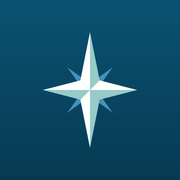
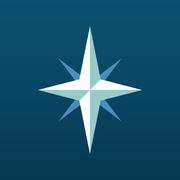
chore: Claude Code 2026-10-05 10:54

diff --git a/src/data/changelog-generated.ts b/src/data/changelog-generated.ts
@@ -5,9 +5,197 @@ import type { Release } from "@/components/changelog-page";
 
 export const GENERATED_RELEASES: Release[] = [
   {
+    "version": "2.66.0",
+    "date": "2026-10-05",
+    "entries": [
+      {
+        "type": "feature",
+        "title": "WhatsApp under Communications — a shared inbox to read and reply to clients (24-hour reply window, approved templates outside it, read receipts, photos and files, assign and close), contacts with emailed opt-in and recorded consent, broadcast lists, Meta template submission, and sends with delivery tracking and automatic opt-outs"
+      },
+      {
+        "type": "fix",
+        "title": "Gate passes can now be emailed to their contact, like every other permit"
+      },
+      {
+        "type": "feature",
+        "title": "Dubai Maritime City (DMC) can now be chosen as the port on Exit & Entry permits"
+      }
+    ]
+  },
+  {
+    "version": "2.65.0",
+    "date": "2026-10-02",
+    "entries": [
+      {
+        "type": "feature",
+        "title": "Warehouse Out, QR labels, offline check-in, receipt email, installable app"
+      },
+      {
+        "type": "feature",
+        "title": "New View theme is now \"Navy & warm gold\" with Jost and Cormorant headings"
+      },
+      {
+        "type": "feature",
+        "title": "Warehouse Store In, Manage Warehouse, and Move Parcel to Storage"
+      },
+      {
+        "type": "feature",
+        "title": "Deliveries (driver) and Manage Deliveries (admin)"
+      },
+      {
+        "type": "feature",
+        "title": "Check-Out Parcels — delivery notes by scan or search, three ways out"
+      },
+      {
+        "type": "fix",
+        "title": "Managed Boats photos keep the same 16:9 size as the Vessels cards"
+      },
+      {
+        "type": "feature",
+        "title": "Link the Logistics mobile app from the ShipSync page"
+      },
+      {
+        "type": "feature",
+        "title": "Polaris Logistics mobile app — shell, role-based home, Check-in Parcels"
+      },
+      {
+        "type": "feature",
+        "title": "Checklist library reads Yes/No-box forms like the DMA inspection checklists"
+      },
+      {
+        "type": "feature",
+        "title": "Checklist library — drop in any checklist PDF and it fills itself like the RYA forms"
+      },
+      {
+        "type": "fix",
+        "title": "Close gaps found in a bug-hunt over last week's Managed Boats work"
+      },
+      {
+        "type": "fix",
+        "title": "Wire up email sending on the Exit/Entry permit dialog"
+      },
+      {
+        "type": "fix",
+        "title": "Checklist lines matched by name can be unlinked"
+      },
+      {
+        "type": "feature",
+        "title": "Inspection checklists as jobs — Assign Team, remarks and photos per line, notes page on the RYA form"
+      }
+    ]
+  },
+  {
+    "version": "2.64.0",
+    "date": "2026-09-30",
+    "entries": [
+      {
+        "type": "feature",
+        "title": "Field app — \"Admin Management\" tab for Orbit admins on the phone"
+      },
+      {
+        "type": "fix",
+        "title": "Vessels with the same name can now be told apart before archiving or deleting one"
+      },
+      {
+        "type": "fix",
+        "title": "Inbound mail joins the ticket its thread already has; no-reply senders raise nothing"
+      },
+      {
+        "type": "fix",
+        "title": "The Vessel Overview search looks across all statuses"
+      },
+      {
+        "type": "feature",
+        "title": "Assign a vessel to an Agency team member when adding it, choosing from the Agency team only"
+      },
+      {
+        "type": "feature",
+        "title": "RYA Cruising checklist — add \"Boom preventer attachment & line\" (TCC13)"
+      },
+      {
+        "type": "feature",
+        "title": "One-click RYA Training Checklist PDF, filled from the boat's Polaris ticks"
+      },
+      {
+        "type": "fix",
+        "title": "\"Save & Add Another\" no longer closes the Inventory item form on desktop"
+      },
+      {
+        "type": "feature",
+        "title": "Checklist rows show the matched inventory item's photo"
+      }
+    ]
+  },
+  {
+    "version": "2.63.0",
+    "date": "2026-09-29",
+    "entries": [
+      {
+        "type": "feature",
+        "title": "RYA inspection checklists from the OPS workbook, matched against the boat's inventory"
+      },
+      {
+        "type": "feature",
+        "title": "Managed Boats — required inspections and per-boat DMA / FMA / RYA checklists"
+      },
+      {
+        "type": "feature",
+        "title": "SIM Cards — bulk import from Excel / CSV"
+      },
+      {
+        "type": "fix",
+        "title": "Calendar and roster show the boat name for Managed Boats jobs"
+      },
+      {
+        "type": "feature",
+        "title": "Field app — per-crew Attend / Done on multi-crew jobs, \"Waiting Companion\""
+      },
+      {
+        "type": "fix",
+        "title": "Photos captured on the mobile app now show on the boat job in the office"
+      },
+      {
+        "type": "feature",
+        "title": "\"Booked\" job category and an In-Use board on Managed Boats"
+      },
+      {
+        "type": "feature",
+        "title": "Inventory List — item editor with Save & Add Another, photo by drag / camera / upload, view and edit"
+      },
+      {
+        "type": "fix",
+        "title": "Inventory List — the Add Item form stays open for the next item"
+      },
+      {
+        "type": "feature",
+        "title": "Inventory job category — crew check and update a boat's inventory from the field app"
+      },
+      {
+        "type": "feature",
+        "title": "Each managed boat numbers its own jobs — MVT26-0001, SB26-0001, IMP26-0001"
+      },
+      {
+        "type": "feature",
+        "title": "Rename a managed boat in place"
+      },
+      {
+        "type": "feature",
+        "title": "Project List — All / To Be Invoiced / Invoiced views, and Delete"
+      }
+    ]
+  },
+  {
     "version": "2.62.0",
     "date": "2026-09-28",
     "entries": [
+      {
+        "type": "fix",
+        "title": "The Network tab now warns when the New Horizon sync has stopped running"
+      },
+      {
+        "type": "feature",
+        "title": "Add the Yacht IT Network register and map, kept in two-way sync with New Horizon-IT"
+      },
       {
         "type": "fix",
         "title": "Ticket emails can only be sent by signed-in staff, and only say what is on the ticket"

diff --git a/src/routes/__root.tsx b/src/routes/__root.tsx
@@ -34,6 +34,13 @@ export const Route = createRootRoute({
       { name: "description", content: "Polaris — The Management Platform for Yacht Operations" },
     ],
     links: [
+      // Favicon — built by scripts/make-favicons.mjs. The .ico declares
+      // sizes="32x32" so browsers that understand SVG prefer the sharper SVG.
+      // No apple-touch-icon link here on purpose: the Orbit and Logistics field
+      // apps declare their own, and iOS falls back to /apple-touch-icon.png
+      // (served from public/) everywhere else.
+      { rel: "icon", href: "/favicon.ico", sizes: "32x32" },
+      { rel: "icon", href: "/favicon.svg", type: "image/svg+xml" },
       { rel: "stylesheet", href: appCss },
       { rel: "preconnect", href: "https://fonts.googleapis.com" },
       { rel: "preconnect", href: "https://fonts.gstatic.com", crossOrigin: "anonymous" },
